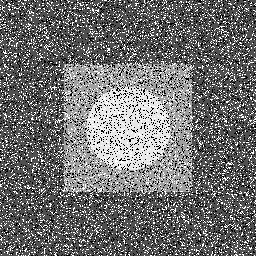
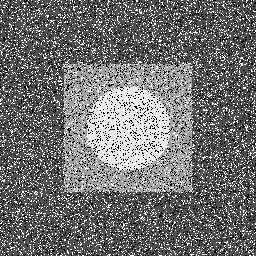
new test images

diff --git a/index.html b/index.html
@@ -47,7 +47,8 @@
                                         <select id="image" name="image">
                                             <option selected="selected" value="dog.png">Dog</option>
                                             <option value="turkey.png">Turkey</option>
-                                            <option value="testimg.png">testimg</option>
+                                            <option value="gaussian_noise.png">gaussian_noise</option>
+                                            <option value="saltandpepper_noise.png">saltandpepper_noise</option>
                                             <option value="salt-and-pepper-dog.png">Salty Dog</option>
                                             <option value="7x7dog.png">Blurry dog</option>
                                         </select>

diff --git a/controllers/StatisticalOrderController.py b/controllers/StatisticalOrderController.py
@@ -16,7 +16,10 @@ class StatisticalOrderController:
         input_image = cv2.imread(image_path, 0)
         a = StatisticalOrderController()
         # add noise
-        out_img1 = a.add_saltandpepper_noise(input_image, 7)
+        if params['image']=='gaussian_noise.png':
+            out_img1 = a.add_gaussian_noise(input_image, 40)
+        if params['image']=='saltandpepper_noise.png':
+            out_img1 = a.add_saltandpepper_noise(input_image, 7)
         image_output1_path = 'controllers/assets/images/out/1_' + params['image']
         # filter
         if 'statisticalFilter' in params.keys():
@@ -27,13 +30,19 @@ class StatisticalOrderController:
         else:
             out_img2 = a.mean_filtering(out_img1, windowsize)
         # elif filtertype=='adaptive':
-        image_output2_path = 'controllers/assets/images/out/2_' + params['image']
+        image_output2_path = 'controllers/assets/images/out/2_' +  params['statisticalFilter']+params['windowSize']+params['image']
         cv2.imwrite(image_output1_path, out_img1)
         cv2.imwrite(image_output2_path, out_img2)
-        str=image_output2_path+'?ssim=0.8'
+        ssim=a.ssim(input_image,out_img2)
+        str_ssim=str(ssim)
+        print(type(ssim))
+        print(ssim)
+        print(type(str_ssim))
+        print(str_ssim)
+        str1=image_output2_path+'?ssim=0%3D8'
         # print(str)
         view = View()
-        output = view.render(message = [image_output1_path,str])
+        output = view.render(message = [image_output1_path,image_output2_path])
 
         return '200 okay', output
 
